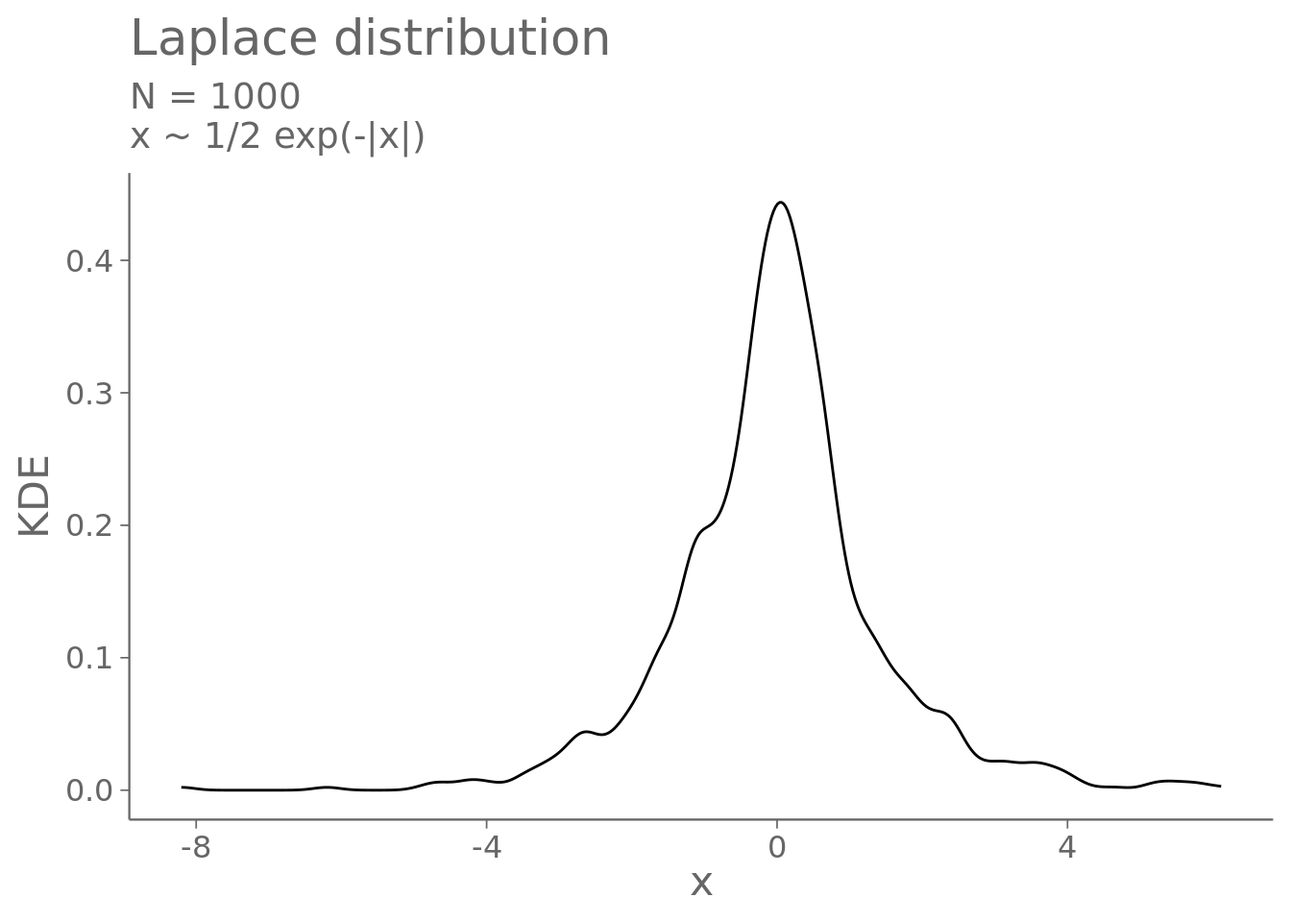
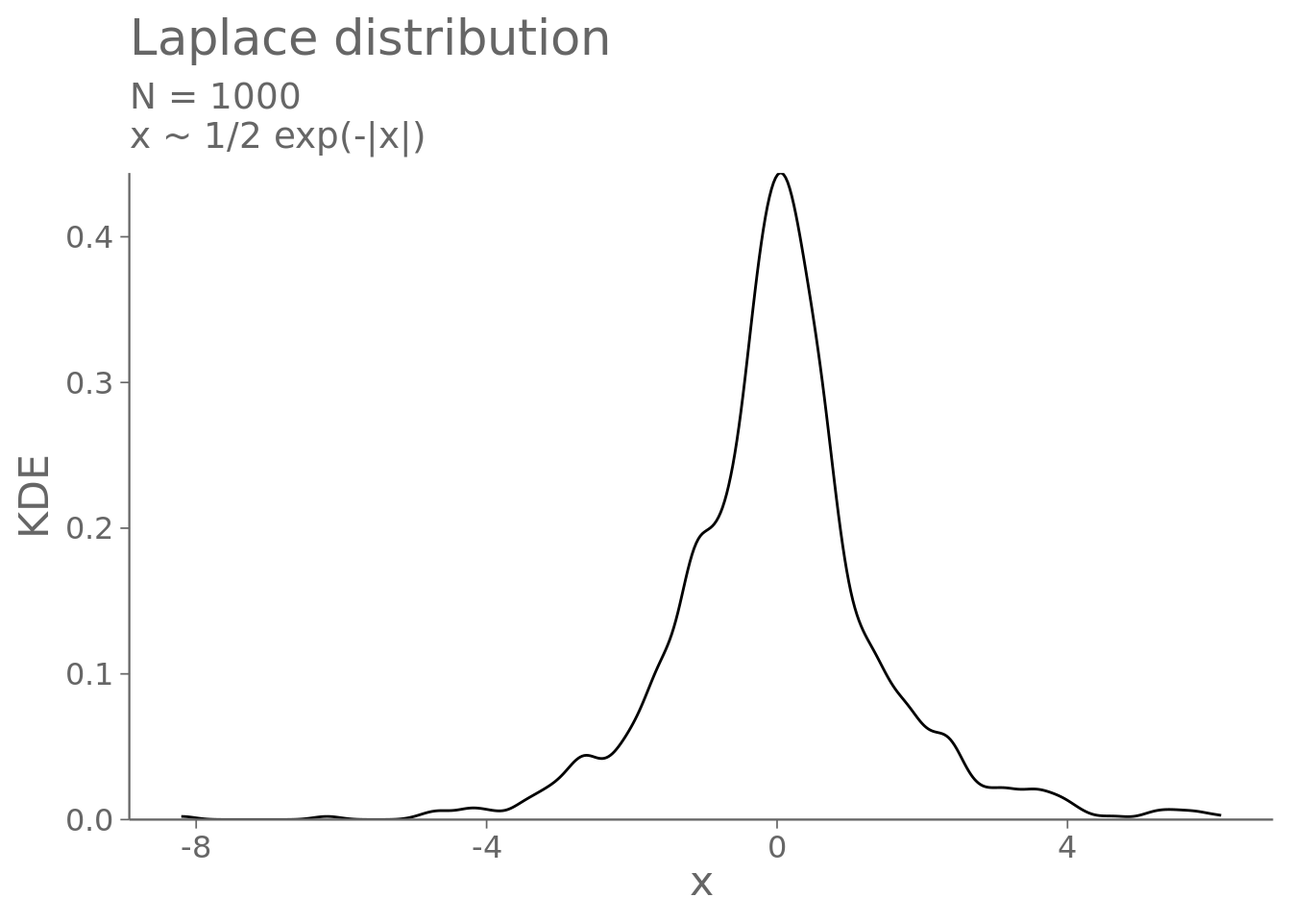
Tweaks to figures.

diff --git a/docs/case_studies/continuous/kde_study/KDE_demo.html b/docs/case_studies/continuous/kde_study/KDE_demo.html
@@ -9,7 +9,7 @@
 <meta name="author" content="Teemu Säilynoja">
 <meta name="dcterms.date" content="2023-02-22">
 
-<title>Posterior Predictive Checks - Kernel density estimate</title>
+<title>Posterior Predictive Checks - Pitfalls of density plots</title>
 <style>
 code{white-space: pre-wrap;}
 span.smallcaps{font-variant: small-caps;}
@@ -101,7 +101,7 @@ pre > code.sourceCode > span > a:first-child::before { text-decoration: underlin
   <script src="https://cdn.jsdelivr.net/npm/mathjax@3/es5/tex-chtml-full.js" type="text/javascript"></script>
 
 <link rel="stylesheet" href="../../../styles/styles.css">
-<meta name="twitter:title" content="Posterior Predictive Checks - Kernel density estimate">
+<meta name="twitter:title" content="Posterior Predictive Checks - Pitfalls of density plots">
 <meta name="twitter:description" content="">
 <meta name="twitter:image" content="docs/case_studies/ordinal/ordinal_files/figure-html/reliability-diagrams_1-1.svg">
 <meta name="twitter:card" content="summary_large_image">
@@ -145,7 +145,7 @@ pre > code.sourceCode > span > a:first-child::before { text-decoration: underlin
 <header id="title-block-header" class="quarto-title-block default page-columns page-full">
   <div class="quarto-title-banner page-columns page-full">
     <div class="quarto-title column-page-left">
-      <div class="quarto-title-block"><div><h1 class="title">Kernel density estimate</h1><button type="button" class="btn code-tools-button dropdown-toggle" id="quarto-code-tools-menu" data-bs-toggle="dropdown" aria-expanded="false"><i class="bi"></i> Code</button><ul class="dropdown-menu dropdown-menu-end" aria-labelelledby="quarto-code-tools-menu"><li><a id="quarto-show-all-code" class="dropdown-item" href="javascript:void(0)" role="button">Show All Code</a></li><li><a id="quarto-hide-all-code" class="dropdown-item" href="javascript:void(0)" role="button">Hide All Code</a></li><li><hr class="dropdown-divider"></li><li><a id="quarto-view-source" class="dropdown-item" href="javascript:void(0)" role="button">View Source</a></li></ul></div></div>
+      <div class="quarto-title-block"><div><h1 class="title">Pitfalls of density plots</h1><button type="button" class="btn code-tools-button dropdown-toggle" id="quarto-code-tools-menu" data-bs-toggle="dropdown" aria-expanded="false"><i class="bi"></i> Code</button><ul class="dropdown-menu dropdown-menu-end" aria-labelelledby="quarto-code-tools-menu"><li><a id="quarto-show-all-code" class="dropdown-item" href="javascript:void(0)" role="button">Show All Code</a></li><li><a id="quarto-hide-all-code" class="dropdown-item" href="javascript:void(0)" role="button">Hide All Code</a></li><li><hr class="dropdown-divider"></li><li><a id="quarto-view-source" class="dropdown-item" href="javascript:void(0)" role="button">View Source</a></li></ul></div></div>
                       </div>
   </div>
     
@@ -261,9 +261,10 @@ pre > code.sourceCode > span > a:first-child::before { text-decoration: underlin
 <span id="cb4-2"><a href="#cb4-2"></a>  <span class="fu">stat_density</span>(<span class="fu">aes</span>(<span class="at">x =</span> x1), <span class="at">bw =</span> <span class="st">"SJ"</span>, <span class="at">geom =</span> <span class="st">"line"</span>) <span class="sc">+</span></span>
 <span id="cb4-3"><a href="#cb4-3"></a>  <span class="fu">xlab</span>(<span class="fu">TeX</span>(<span class="st">"$x$"</span>)) <span class="sc">+</span></span>
 <span id="cb4-4"><a href="#cb4-4"></a>  <span class="fu">ylab</span>(<span class="st">"KDE"</span>) <span class="sc">+</span></span>
-<span id="cb4-5"><a href="#cb4-5"></a>  <span class="fu">ggtitle</span>(<span class="st">"Laplace distribution"</span>,<span class="at">subtitle =</span> <span class="st">"N = 1000</span><span class="sc">\n</span><span class="st">x ~ 1/2 exp(-|x|)"</span>)</span>
-<span id="cb4-6"><a href="#cb4-6"></a></span>
-<span id="cb4-7"><a href="#cb4-7"></a>p1</span></code><button title="Copy to Clipboard" class="code-copy-button"><i class="bi"></i></button></pre></div>
+<span id="cb4-5"><a href="#cb4-5"></a>  <span class="fu">ggtitle</span>(<span class="st">"Laplace distribution"</span>,<span class="at">subtitle =</span> <span class="st">"N = 1000</span><span class="sc">\n</span><span class="st">x ~ 1/2 exp(-|x|)"</span>) <span class="sc">+</span></span>
+<span id="cb4-6"><a href="#cb4-6"></a>  <span class="fu">scale_y_continuous</span>(<span class="at">expand =</span> <span class="fu">c</span>(<span class="dv">0</span>,<span class="cn">NA</span>))</span>
+<span id="cb4-7"><a href="#cb4-7"></a></span>
+<span id="cb4-8"><a href="#cb4-8"></a>p1</span></code><button title="Copy to Clipboard" class="code-copy-button"><i class="bi"></i></button></pre></div>
 </details>
 <div class="cell-output-display">
 <p><img src="KDE_demo_files/figure-html/unnamed-chunk-4-1.png" class="quarto-discovered-preview-image img-fluid" width="672"></p>
@@ -302,9 +303,10 @@ pre > code.sourceCode > span > a:first-child::before { text-decoration: underlin
 <span id="cb7-3"><a href="#cb7-3"></a>  <span class="fu">stat_density</span>(<span class="fu">aes</span>(<span class="at">x =</span> x2, <span class="at">colour =</span> <span class="st">"Naive"</span>), <span class="at">geom =</span> <span class="st">"line"</span>) <span class="sc">+</span> </span>
 <span id="cb7-4"><a href="#cb7-4"></a>  <span class="fu">labs</span>(<span class="at">title =</span> <span class="st">"Bounded observation"</span>, <span class="at">subtitle =</span> <span class="st">"KDE computed with and without the bounds"</span>,</span>
 <span id="cb7-5"><a href="#cb7-5"></a>       <span class="at">x =</span> <span class="fu">TeX</span>(<span class="st">"$x$"</span>), <span class="at">y =</span> <span class="st">"KDE"</span>, <span class="at">colour =</span> <span class="st">""</span>) <span class="sc">+</span></span>
-<span id="cb7-6"><a href="#cb7-6"></a>  <span class="fu">scale_colour_vibrant</span>()</span>
-<span id="cb7-7"><a href="#cb7-7"></a></span>
-<span id="cb7-8"><a href="#cb7-8"></a>p2</span></code><button title="Copy to Clipboard" class="code-copy-button"><i class="bi"></i></button></pre></div>
+<span id="cb7-6"><a href="#cb7-6"></a>  <span class="fu">scale_colour_vibrant</span>() <span class="sc">+</span></span>
+<span id="cb7-7"><a href="#cb7-7"></a>  <span class="fu">scale_y_continuous</span>(<span class="at">expand =</span> <span class="fu">c</span>(<span class="dv">0</span>,<span class="cn">NA</span>))</span>
+<span id="cb7-8"><a href="#cb7-8"></a></span>
+<span id="cb7-9"><a href="#cb7-9"></a>p2</span></code><button title="Copy to Clipboard" class="code-copy-button"><i class="bi"></i></button></pre></div>
 </details>
 <div class="cell-output-display">
 <p><img src="KDE_demo_files/figure-html/unnamed-chunk-7-1.png" class="img-fluid" width="672"></p>
@@ -352,9 +354,10 @@ pre > code.sourceCode > span > a:first-child::before { text-decoration: underlin
 <span id="cb10-10"><a href="#cb10-10"></a>  <span class="fu">labs</span>(<span class="at">title =</span> <span class="st">"Observation with point mass"</span>,</span>
 <span id="cb10-11"><a href="#cb10-11"></a>       <span class="at">subtitle =</span> <span class="st">"KDE for full observation and only continuous part"</span>,</span>
 <span id="cb10-12"><a href="#cb10-12"></a>       <span class="at">x =</span> <span class="fu">TeX</span>(<span class="st">"x"</span>), <span class="at">y =</span> <span class="st">""</span>, <span class="at">colour =</span> <span class="st">""</span>, <span class="at">fill =</span> <span class="st">""</span>) <span class="sc">+</span></span>
-<span id="cb10-13"><a href="#cb10-13"></a>  <span class="fu">scale_colour_vibrant</span>() <span class="sc">+</span> <span class="fu">scale_fill_vibrant</span>()</span>
-<span id="cb10-14"><a href="#cb10-14"></a></span>
-<span id="cb10-15"><a href="#cb10-15"></a>p3</span></code><button title="Copy to Clipboard" class="code-copy-button"><i class="bi"></i></button></pre></div>
+<span id="cb10-13"><a href="#cb10-13"></a>  <span class="fu">scale_colour_vibrant</span>() <span class="sc">+</span> <span class="fu">scale_fill_vibrant</span>() <span class="sc">+</span></span>
+<span id="cb10-14"><a href="#cb10-14"></a>  <span class="fu">scale_y_continuous</span>(<span class="at">expand =</span> <span class="fu">c</span>(<span class="dv">0</span>,<span class="cn">NA</span>))</span>
+<span id="cb10-15"><a href="#cb10-15"></a></span>
+<span id="cb10-16"><a href="#cb10-16"></a>p3</span></code><button title="Copy to Clipboard" class="code-copy-button"><i class="bi"></i></button></pre></div>
 </details>
 <div class="cell-output-display">
 <p><img src="KDE_demo_files/figure-html/unnamed-chunk-10-1.png" class="img-fluid" width="672"></p>
@@ -792,7 +795,7 @@ window.document.addEventListener("DOMContentLoaded", function (event) {
 });
 </script><div class="modal fade" id="quarto-embedded-source-code-modal" tabindex="-1" aria-labelledby="quarto-embedded-source-code-modal-label" aria-hidden="true"><div class="modal-dialog modal-dialog-scrollable"><div class="modal-content"><div class="modal-header"><h5 class="modal-title" id="quarto-embedded-source-code-modal-label">Source Code</h5><button class="btn-close" data-bs-dismiss="modal"></button></div><div class="modal-body"><div class="">
 <div class="sourceCode" id="cb13" data-shortcodes="false"><pre class="sourceCode numberSource markdown number-lines code-with-copy"><code class="sourceCode markdown"><span id="cb13-1"><a href="#cb13-1"></a><span class="co">---</span></span>
-<span id="cb13-2"><a href="#cb13-2"></a><span class="an">title:</span><span class="co"> "Kernel density estimate"</span></span>
+<span id="cb13-2"><a href="#cb13-2"></a><span class="an">title:</span><span class="co"> "Pitfalls of density plots"</span></span>
 <span id="cb13-3"><a href="#cb13-3"></a><span class="an">author:</span><span class="co"> "Teemu Säilynoja"</span></span>
 <span id="cb13-4"><a href="#cb13-4"></a><span class="an">date:</span><span class="co"> "2023-02-22"</span></span>
 <span id="cb13-5"><a href="#cb13-5"></a><span class="an">date-modified:</span><span class="co"> "`r format(Sys.Date(), '%Y-%m-%d')`"</span></span>
@@ -869,114 +872,117 @@ window.document.addEventListener("DOMContentLoaded", function (event) {
 <span id="cb13-84"><a href="#cb13-84"></a>  <span class="fu">stat_density</span>(<span class="fu">aes</span>(<span class="at">x =</span> x1), <span class="at">bw =</span> <span class="st">"SJ"</span>, <span class="at">geom =</span> <span class="st">"line"</span>) <span class="sc">+</span></span>
 <span id="cb13-85"><a href="#cb13-85"></a>  <span class="fu">xlab</span>(<span class="fu">TeX</span>(<span class="st">"$x$"</span>)) <span class="sc">+</span></span>
 <span id="cb13-86"><a href="#cb13-86"></a>  <span class="fu">ylab</span>(<span class="st">"KDE"</span>) <span class="sc">+</span></span>
-<span id="cb13-87"><a href="#cb13-87"></a>  <span class="fu">ggtitle</span>(<span class="st">"Laplace distribution"</span>,<span class="at">subtitle =</span> <span class="st">"N = 1000</span><span class="sc">\n</span><span class="st">x ~ 1/2 exp(-|x|)"</span>)</span>
-<span id="cb13-88"><a href="#cb13-88"></a></span>
-<span id="cb13-89"><a href="#cb13-89"></a>p1</span>
-<span id="cb13-90"><a href="#cb13-90"></a><span class="in">```</span></span>
-<span id="cb13-91"><a href="#cb13-91"></a></span>
-<span id="cb13-92"><a href="#cb13-92"></a>The ECDF difference plot doesn't suggest any issues with the KDE</span>
-<span id="cb13-95"><a href="#cb13-95"></a><span class="in">```{r}</span></span>
-<span id="cb13-96"><a href="#cb13-96"></a><span class="co">#| message: false</span></span>
-<span id="cb13-97"><a href="#cb13-97"></a>p0 <span class="sc">+</span> <span class="fu">geom_step</span>(<span class="fu">aes</span>(<span class="at">y =</span> <span class="fu">ecdf</span>(<span class="fu">pit_from_densityplot</span>(p1, <span class="dv">1</span>, x1))(x0) <span class="sc">-</span> x0))</span>
-<span id="cb13-98"><a href="#cb13-98"></a><span class="in">```</span></span>
-<span id="cb13-99"><a href="#cb13-99"></a></span>
+<span id="cb13-87"><a href="#cb13-87"></a>  <span class="fu">ggtitle</span>(<span class="st">"Laplace distribution"</span>,<span class="at">subtitle =</span> <span class="st">"N = 1000</span><span class="sc">\n</span><span class="st">x ~ 1/2 exp(-|x|)"</span>) <span class="sc">+</span></span>
+<span id="cb13-88"><a href="#cb13-88"></a>  <span class="fu">scale_y_continuous</span>(<span class="at">expand =</span> <span class="fu">c</span>(<span class="dv">0</span>,<span class="cn">NA</span>))</span>
+<span id="cb13-89"><a href="#cb13-89"></a></span>
+<span id="cb13-90"><a href="#cb13-90"></a>p1</span>
+<span id="cb13-91"><a href="#cb13-91"></a><span class="in">```</span></span>
+<span id="cb13-92"><a href="#cb13-92"></a></span>
+<span id="cb13-93"><a href="#cb13-93"></a>The ECDF difference plot doesn't suggest any issues with the KDE</span>
+<span id="cb13-96"><a href="#cb13-96"></a><span class="in">```{r}</span></span>
+<span id="cb13-97"><a href="#cb13-97"></a><span class="co">#| message: false</span></span>
+<span id="cb13-98"><a href="#cb13-98"></a>p0 <span class="sc">+</span> <span class="fu">geom_step</span>(<span class="fu">aes</span>(<span class="at">y =</span> <span class="fu">ecdf</span>(<span class="fu">pit_from_densityplot</span>(p1, <span class="dv">1</span>, x1))(x0) <span class="sc">-</span> x0))</span>
+<span id="cb13-99"><a href="#cb13-99"></a><span class="in">```</span></span>
 <span id="cb13-100"><a href="#cb13-100"></a></span>
-<span id="cb13-101"><a href="#cb13-101"></a><span class="fu">## Bounded continuous data</span></span>
-<span id="cb13-102"><a href="#cb13-102"></a></span>
-<span id="cb13-103"><a href="#cb13-103"></a>Sample as above, but the distribution is truncated to the interval $<span class="co">[</span><span class="ot">-1.5,0.5</span><span class="co">]</span>$.</span>
-<span id="cb13-104"><a href="#cb13-104"></a></span>
-<span id="cb13-107"><a href="#cb13-107"></a><span class="in">```{r}</span></span>
-<span id="cb13-108"><a href="#cb13-108"></a><span class="co">#| label: sample 2</span></span>
-<span id="cb13-109"><a href="#cb13-109"></a>x2 <span class="ot">&lt;-</span> x1</span>
-<span id="cb13-110"><a href="#cb13-110"></a><span class="cf">while</span> (<span class="sc">!</span><span class="fu">all</span>(x2 <span class="sc">&gt;</span> <span class="sc">-</span><span class="fl">1.5</span>, x2 <span class="sc">&lt;</span> .<span class="dv">5</span>)) {</span>
-<span id="cb13-111"><a href="#cb13-111"></a>  mask <span class="ot">&lt;-</span> (x2 <span class="sc">&lt;</span> <span class="sc">-</span><span class="fl">1.5</span> <span class="sc">|</span> x2 <span class="sc">&gt;</span> .<span class="dv">5</span>)</span>
-<span id="cb13-112"><a href="#cb13-112"></a>  x2[mask] <span class="ot">=</span> <span class="fu">sample</span>(<span class="fu">c</span>(<span class="sc">-</span><span class="dv">1</span>,<span class="dv">1</span>), <span class="fu">sum</span>(mask), <span class="at">replace =</span> T) <span class="sc">*</span> <span class="fu">rexp</span>(<span class="fu">sum</span>(mask))</span>
-<span id="cb13-113"><a href="#cb13-113"></a>}</span>
-<span id="cb13-114"><a href="#cb13-114"></a><span class="in">```</span></span>
-<span id="cb13-115"><a href="#cb13-115"></a></span>
-<span id="cb13-116"><a href="#cb13-116"></a>We see a difference in the tails of the densityplots, when the boundedness is taken into account in the KDE computations.</span>
-<span id="cb13-119"><a href="#cb13-119"></a><span class="in">```{r}</span></span>
-<span id="cb13-120"><a href="#cb13-120"></a>p2 <span class="ot">&lt;-</span> <span class="fu">ggplot</span>() <span class="sc">+</span> </span>
-<span id="cb13-121"><a href="#cb13-121"></a>  <span class="fu">stat_density</span>(<span class="fu">aes</span>(<span class="at">x =</span> x2, <span class="at">colour =</span> <span class="st">"Bounded"</span>), <span class="at">geom =</span> <span class="st">"line"</span>, <span class="at">bounds =</span> <span class="fu">c</span>(<span class="sc">-</span><span class="fl">1.5</span>, .<span class="dv">5</span>)) <span class="sc">+</span></span>
-<span id="cb13-122"><a href="#cb13-122"></a>  <span class="fu">stat_density</span>(<span class="fu">aes</span>(<span class="at">x =</span> x2, <span class="at">colour =</span> <span class="st">"Naive"</span>), <span class="at">geom =</span> <span class="st">"line"</span>) <span class="sc">+</span> </span>
-<span id="cb13-123"><a href="#cb13-123"></a>  <span class="fu">labs</span>(<span class="at">title =</span> <span class="st">"Bounded observation"</span>, <span class="at">subtitle =</span> <span class="st">"KDE computed with and without the bounds"</span>,</span>
-<span id="cb13-124"><a href="#cb13-124"></a>       <span class="at">x =</span> <span class="fu">TeX</span>(<span class="st">"$x$"</span>), <span class="at">y =</span> <span class="st">"KDE"</span>, <span class="at">colour =</span> <span class="st">""</span>) <span class="sc">+</span></span>
-<span id="cb13-125"><a href="#cb13-125"></a>  <span class="fu">scale_colour_vibrant</span>()</span>
-<span id="cb13-126"><a href="#cb13-126"></a></span>
-<span id="cb13-127"><a href="#cb13-127"></a>p2</span>
-<span id="cb13-128"><a href="#cb13-128"></a><span class="in">```</span></span>
-<span id="cb13-129"><a href="#cb13-129"></a></span>
-<span id="cb13-130"><a href="#cb13-130"></a>The ECDF difference plot also suggests calibration issues with the unbounded KDE. </span>
-<span id="cb13-133"><a href="#cb13-133"></a><span class="in">```{r}</span></span>
-<span id="cb13-134"><a href="#cb13-134"></a><span class="co">#| label: ecdf 2</span></span>
-<span id="cb13-135"><a href="#cb13-135"></a><span class="co">#| message: false</span></span>
-<span id="cb13-136"><a href="#cb13-136"></a>p0 <span class="sc">+</span> <span class="fu">geom_step</span>(<span class="fu">aes</span>(<span class="at">y =</span> <span class="fu">ecdf</span>(<span class="fu">pit_from_densityplot</span>(p2, <span class="dv">2</span>, x2))(x0) <span class="sc">-</span> x0,</span>
-<span id="cb13-137"><a href="#cb13-137"></a>                   <span class="at">colour =</span> <span class="st">"Naive"</span>)) <span class="sc">+</span></span>
-<span id="cb13-138"><a href="#cb13-138"></a>  <span class="fu">geom_step</span>(<span class="fu">aes</span>(<span class="at">y =</span> <span class="fu">ecdf</span>(<span class="fu">pit_from_densityplot</span>(p2, <span class="dv">1</span>, x2))(x0) <span class="sc">-</span> x0, <span class="at">colour =</span> <span class="st">"Bounded"</span>)) <span class="sc">+</span></span>
-<span id="cb13-139"><a href="#cb13-139"></a>  <span class="fu">labs</span>(<span class="at">colour =</span> <span class="st">""</span>) <span class="sc">+</span></span>
-<span id="cb13-140"><a href="#cb13-140"></a>  <span class="fu">scale_colour_vibrant</span>()</span>
-<span id="cb13-141"><a href="#cb13-141"></a><span class="in">```</span></span>
-<span id="cb13-142"><a href="#cb13-142"></a></span>
-<span id="cb13-143"><a href="#cb13-143"></a></span>
-<span id="cb13-144"><a href="#cb13-144"></a><span class="fu">## Continuous data with point masses</span></span>
+<span id="cb13-101"><a href="#cb13-101"></a></span>
+<span id="cb13-102"><a href="#cb13-102"></a><span class="fu">## Bounded continuous data</span></span>
+<span id="cb13-103"><a href="#cb13-103"></a></span>
+<span id="cb13-104"><a href="#cb13-104"></a>Sample as above, but the distribution is truncated to the interval $<span class="co">[</span><span class="ot">-1.5,0.5</span><span class="co">]</span>$.</span>
+<span id="cb13-105"><a href="#cb13-105"></a></span>
+<span id="cb13-108"><a href="#cb13-108"></a><span class="in">```{r}</span></span>
+<span id="cb13-109"><a href="#cb13-109"></a><span class="co">#| label: sample 2</span></span>
+<span id="cb13-110"><a href="#cb13-110"></a>x2 <span class="ot">&lt;-</span> x1</span>
+<span id="cb13-111"><a href="#cb13-111"></a><span class="cf">while</span> (<span class="sc">!</span><span class="fu">all</span>(x2 <span class="sc">&gt;</span> <span class="sc">-</span><span class="fl">1.5</span>, x2 <span class="sc">&lt;</span> .<span class="dv">5</span>)) {</span>
+<span id="cb13-112"><a href="#cb13-112"></a>  mask <span class="ot">&lt;-</span> (x2 <span class="sc">&lt;</span> <span class="sc">-</span><span class="fl">1.5</span> <span class="sc">|</span> x2 <span class="sc">&gt;</span> .<span class="dv">5</span>)</span>
+<span id="cb13-113"><a href="#cb13-113"></a>  x2[mask] <span class="ot">=</span> <span class="fu">sample</span>(<span class="fu">c</span>(<span class="sc">-</span><span class="dv">1</span>,<span class="dv">1</span>), <span class="fu">sum</span>(mask), <span class="at">replace =</span> T) <span class="sc">*</span> <span class="fu">rexp</span>(<span class="fu">sum</span>(mask))</span>
+<span id="cb13-114"><a href="#cb13-114"></a>}</span>
+<span id="cb13-115"><a href="#cb13-115"></a><span class="in">```</span></span>
+<span id="cb13-116"><a href="#cb13-116"></a></span>
+<span id="cb13-117"><a href="#cb13-117"></a>We see a difference in the tails of the densityplots, when the boundedness is taken into account in the KDE computations.</span>
+<span id="cb13-120"><a href="#cb13-120"></a><span class="in">```{r}</span></span>
+<span id="cb13-121"><a href="#cb13-121"></a>p2 <span class="ot">&lt;-</span> <span class="fu">ggplot</span>() <span class="sc">+</span> </span>
+<span id="cb13-122"><a href="#cb13-122"></a>  <span class="fu">stat_density</span>(<span class="fu">aes</span>(<span class="at">x =</span> x2, <span class="at">colour =</span> <span class="st">"Bounded"</span>), <span class="at">geom =</span> <span class="st">"line"</span>, <span class="at">bounds =</span> <span class="fu">c</span>(<span class="sc">-</span><span class="fl">1.5</span>, .<span class="dv">5</span>)) <span class="sc">+</span></span>
+<span id="cb13-123"><a href="#cb13-123"></a>  <span class="fu">stat_density</span>(<span class="fu">aes</span>(<span class="at">x =</span> x2, <span class="at">colour =</span> <span class="st">"Naive"</span>), <span class="at">geom =</span> <span class="st">"line"</span>) <span class="sc">+</span> </span>
+<span id="cb13-124"><a href="#cb13-124"></a>  <span class="fu">labs</span>(<span class="at">title =</span> <span class="st">"Bounded observation"</span>, <span class="at">subtitle =</span> <span class="st">"KDE computed with and without the bounds"</span>,</span>
+<span id="cb13-125"><a href="#cb13-125"></a>       <span class="at">x =</span> <span class="fu">TeX</span>(<span class="st">"$x$"</span>), <span class="at">y =</span> <span class="st">"KDE"</span>, <span class="at">colour =</span> <span class="st">""</span>) <span class="sc">+</span></span>
+<span id="cb13-126"><a href="#cb13-126"></a>  <span class="fu">scale_colour_vibrant</span>() <span class="sc">+</span></span>
+<span id="cb13-127"><a href="#cb13-127"></a>  <span class="fu">scale_y_continuous</span>(<span class="at">expand =</span> <span class="fu">c</span>(<span class="dv">0</span>,<span class="cn">NA</span>))</span>
+<span id="cb13-128"><a href="#cb13-128"></a></span>
+<span id="cb13-129"><a href="#cb13-129"></a>p2</span>
+<span id="cb13-130"><a href="#cb13-130"></a><span class="in">```</span></span>
+<span id="cb13-131"><a href="#cb13-131"></a></span>
+<span id="cb13-132"><a href="#cb13-132"></a>The ECDF difference plot also suggests calibration issues with the unbounded KDE. </span>
+<span id="cb13-135"><a href="#cb13-135"></a><span class="in">```{r}</span></span>
+<span id="cb13-136"><a href="#cb13-136"></a><span class="co">#| label: ecdf 2</span></span>
+<span id="cb13-137"><a href="#cb13-137"></a><span class="co">#| message: false</span></span>
+<span id="cb13-138"><a href="#cb13-138"></a>p0 <span class="sc">+</span> <span class="fu">geom_step</span>(<span class="fu">aes</span>(<span class="at">y =</span> <span class="fu">ecdf</span>(<span class="fu">pit_from_densityplot</span>(p2, <span class="dv">2</span>, x2))(x0) <span class="sc">-</span> x0,</span>
+<span id="cb13-139"><a href="#cb13-139"></a>                   <span class="at">colour =</span> <span class="st">"Naive"</span>)) <span class="sc">+</span></span>
+<span id="cb13-140"><a href="#cb13-140"></a>  <span class="fu">geom_step</span>(<span class="fu">aes</span>(<span class="at">y =</span> <span class="fu">ecdf</span>(<span class="fu">pit_from_densityplot</span>(p2, <span class="dv">1</span>, x2))(x0) <span class="sc">-</span> x0, <span class="at">colour =</span> <span class="st">"Bounded"</span>)) <span class="sc">+</span></span>
+<span id="cb13-141"><a href="#cb13-141"></a>  <span class="fu">labs</span>(<span class="at">colour =</span> <span class="st">""</span>) <span class="sc">+</span></span>
+<span id="cb13-142"><a href="#cb13-142"></a>  <span class="fu">scale_colour_vibrant</span>()</span>
+<span id="cb13-143"><a href="#cb13-143"></a><span class="in">```</span></span>
+<span id="cb13-144"><a href="#cb13-144"></a></span>
 <span id="cb13-145"><a href="#cb13-145"></a></span>
-<span id="cb13-146"><a href="#cb13-146"></a>Simulate an example, where measurements under a certain threshold are reported as zeros.</span>
-<span id="cb13-147"><a href="#cb13-147"></a>Here $x\sim\exp(x)$ with all values sampled below $0.1$ reported as zero. </span>
-<span id="cb13-150"><a href="#cb13-150"></a><span class="in">```{r}</span></span>
-<span id="cb13-151"><a href="#cb13-151"></a><span class="co">#| label: sample 3</span></span>
-<span id="cb13-152"><a href="#cb13-152"></a>x3 <span class="ot">&lt;-</span> <span class="fu">rexp</span>(<span class="dv">1000</span>, <span class="dv">1</span>)</span>
-<span id="cb13-153"><a href="#cb13-153"></a>x3[x3 <span class="sc">&lt;</span> .<span class="dv">1</span>] <span class="ot">&lt;-</span> <span class="dv">0</span></span>
-<span id="cb13-154"><a href="#cb13-154"></a><span class="in">```</span></span>
-<span id="cb13-155"><a href="#cb13-155"></a></span>
-<span id="cb13-156"><a href="#cb13-156"></a>If the measurement threshold is known, the data can be visualized as a mixture of</span>
-<span id="cb13-157"><a href="#cb13-157"></a>a discrete point mass and a continuous distribution. The "naive" KDE seems to </span>
-<span id="cb13-158"><a href="#cb13-158"></a>under estimate the density near $0.1$, and can't show the spike at zero. </span>
-<span id="cb13-159"><a href="#cb13-159"></a></span>
-<span id="cb13-160"><a href="#cb13-160"></a>Below, the density of the continuous mixture component is scaled by $P(x \neq 0)$</span>
-<span id="cb13-161"><a href="#cb13-161"></a>to make the area of the bar and the KDE together add to one.</span>
-<span id="cb13-164"><a href="#cb13-164"></a><span class="in">```{r}</span></span>
-<span id="cb13-165"><a href="#cb13-165"></a>p3 <span class="ot">&lt;-</span> <span class="fu">ggplot</span>() <span class="sc">+</span> </span>
-<span id="cb13-166"><a href="#cb13-166"></a>  <span class="fu">geom_rect</span>(</span>
-<span id="cb13-167"><a href="#cb13-167"></a>    <span class="fu">aes</span>(<span class="at">xmin =</span> <span class="dv">0</span>, <span class="at">xmax =</span> .<span class="dv">1</span>, <span class="at">ymin =</span> <span class="dv">0</span>, <span class="at">ymax =</span> <span class="dv">10</span> <span class="sc">*</span> <span class="fu">sum</span>(x3 <span class="sc">==</span> <span class="dv">0</span>) <span class="sc">/</span> <span class="fu">length</span>(x3), </span>
-<span id="cb13-168"><a href="#cb13-168"></a>        <span class="at">colour =</span> <span class="st">"Mixture"</span>, <span class="at">fill =</span> <span class="st">"Mixture"</span>),</span>
-<span id="cb13-169"><a href="#cb13-169"></a>    <span class="at">alpha =</span> .<span class="dv">3</span>) <span class="sc">+</span></span>
-<span id="cb13-170"><a href="#cb13-170"></a>  <span class="fu">stat_density</span>(</span>
-<span id="cb13-171"><a href="#cb13-171"></a>    <span class="fu">aes</span>(<span class="at">x =</span> x3[x3 <span class="sc">&gt;</span> <span class="dv">0</span>], <span class="at">y =</span> (<span class="dv">1</span> <span class="sc">-</span> <span class="fu">sum</span>(x3 <span class="sc">==</span> <span class="dv">0</span>) <span class="sc">/</span> <span class="fu">length</span>(x3)) <span class="sc">*</span> <span class="fu">after_stat</span>(density), </span>
-<span id="cb13-172"><a href="#cb13-172"></a>        <span class="at">colour =</span> <span class="st">"Mixture"</span>, <span class="at">fill =</span> <span class="st">"Naive"</span>), <span class="at">alpha =</span> <span class="dv">0</span>, <span class="at">bounds =</span> <span class="fu">c</span>(.<span class="dv">1</span>, <span class="cn">Inf</span>), <span class="at">outline.type =</span> <span class="st">"upper"</span>) <span class="sc">+</span></span>
-<span id="cb13-173"><a href="#cb13-173"></a>  <span class="fu">stat_density</span>(<span class="fu">aes</span>(<span class="at">x =</span> x3, <span class="at">colour =</span> <span class="st">"Naive"</span>, <span class="at">fill =</span> <span class="st">"Naive"</span>), <span class="at">alpha =</span> <span class="dv">0</span>, <span class="at">linewidth =</span> <span class="dv">1</span>, <span class="at">outline.type =</span> <span class="st">"upper"</span>) <span class="sc">+</span></span>
-<span id="cb13-174"><a href="#cb13-174"></a>  <span class="fu">labs</span>(<span class="at">title =</span> <span class="st">"Observation with point mass"</span>,</span>
-<span id="cb13-175"><a href="#cb13-175"></a>       <span class="at">subtitle =</span> <span class="st">"KDE for full observation and only continuous part"</span>,</span>
-<span id="cb13-176"><a href="#cb13-176"></a>       <span class="at">x =</span> <span class="fu">TeX</span>(<span class="st">"x"</span>), <span class="at">y =</span> <span class="st">""</span>, <span class="at">colour =</span> <span class="st">""</span>, <span class="at">fill =</span> <span class="st">""</span>) <span class="sc">+</span></span>
-<span id="cb13-177"><a href="#cb13-177"></a>  <span class="fu">scale_colour_vibrant</span>() <span class="sc">+</span> <span class="fu">scale_fill_vibrant</span>()</span>
-<span id="cb13-178"><a href="#cb13-178"></a></span>
-<span id="cb13-179"><a href="#cb13-179"></a>p3</span>
-<span id="cb13-180"><a href="#cb13-180"></a><span class="in">```</span></span>
+<span id="cb13-146"><a href="#cb13-146"></a><span class="fu">## Continuous data with point masses</span></span>
+<span id="cb13-147"><a href="#cb13-147"></a></span>
+<span id="cb13-148"><a href="#cb13-148"></a>Simulate an example, where measurements under a certain threshold are reported as zeros.</span>
+<span id="cb13-149"><a href="#cb13-149"></a>Here $x\sim\exp(x)$ with all values sampled below $0.1$ reported as zero. </span>
+<span id="cb13-152"><a href="#cb13-152"></a><span class="in">```{r}</span></span>
+<span id="cb13-153"><a href="#cb13-153"></a><span class="co">#| label: sample 3</span></span>
+<span id="cb13-154"><a href="#cb13-154"></a>x3 <span class="ot">&lt;-</span> <span class="fu">rexp</span>(<span class="dv">1000</span>, <span class="dv">1</span>)</span>
+<span id="cb13-155"><a href="#cb13-155"></a>x3[x3 <span class="sc">&lt;</span> .<span class="dv">1</span>] <span class="ot">&lt;-</span> <span class="dv">0</span></span>
+<span id="cb13-156"><a href="#cb13-156"></a><span class="in">```</span></span>
+<span id="cb13-157"><a href="#cb13-157"></a></span>
+<span id="cb13-158"><a href="#cb13-158"></a>If the measurement threshold is known, the data can be visualized as a mixture of</span>
+<span id="cb13-159"><a href="#cb13-159"></a>a discrete point mass and a continuous distribution. The "naive" KDE seems to </span>
+<span id="cb13-160"><a href="#cb13-160"></a>under estimate the density near $0.1$, and can't show the spike at zero. </span>
+<span id="cb13-161"><a href="#cb13-161"></a></span>
+<span id="cb13-162"><a href="#cb13-162"></a>Below, the density of the continuous mixture component is scaled by $P(x \neq 0)$</span>
+<span id="cb13-163"><a href="#cb13-163"></a>to make the area of the bar and the KDE together add to one.</span>
+<span id="cb13-166"><a href="#cb13-166"></a><span class="in">```{r}</span></span>
+<span id="cb13-167"><a href="#cb13-167"></a>p3 <span class="ot">&lt;-</span> <span class="fu">ggplot</span>() <span class="sc">+</span> </span>
+<span id="cb13-168"><a href="#cb13-168"></a>  <span class="fu">geom_rect</span>(</span>
+<span id="cb13-169"><a href="#cb13-169"></a>    <span class="fu">aes</span>(<span class="at">xmin =</span> <span class="dv">0</span>, <span class="at">xmax =</span> .<span class="dv">1</span>, <span class="at">ymin =</span> <span class="dv">0</span>, <span class="at">ymax =</span> <span class="dv">10</span> <span class="sc">*</span> <span class="fu">sum</span>(x3 <span class="sc">==</span> <span class="dv">0</span>) <span class="sc">/</span> <span class="fu">length</span>(x3), </span>
+<span id="cb13-170"><a href="#cb13-170"></a>        <span class="at">colour =</span> <span class="st">"Mixture"</span>, <span class="at">fill =</span> <span class="st">"Mixture"</span>),</span>
+<span id="cb13-171"><a href="#cb13-171"></a>    <span class="at">alpha =</span> .<span class="dv">3</span>) <span class="sc">+</span></span>
+<span id="cb13-172"><a href="#cb13-172"></a>  <span class="fu">stat_density</span>(</span>
+<span id="cb13-173"><a href="#cb13-173"></a>    <span class="fu">aes</span>(<span class="at">x =</span> x3[x3 <span class="sc">&gt;</span> <span class="dv">0</span>], <span class="at">y =</span> (<span class="dv">1</span> <span class="sc">-</span> <span class="fu">sum</span>(x3 <span class="sc">==</span> <span class="dv">0</span>) <span class="sc">/</span> <span class="fu">length</span>(x3)) <span class="sc">*</span> <span class="fu">after_stat</span>(density), </span>
+<span id="cb13-174"><a href="#cb13-174"></a>        <span class="at">colour =</span> <span class="st">"Mixture"</span>, <span class="at">fill =</span> <span class="st">"Naive"</span>), <span class="at">alpha =</span> <span class="dv">0</span>, <span class="at">bounds =</span> <span class="fu">c</span>(.<span class="dv">1</span>, <span class="cn">Inf</span>), <span class="at">outline.type =</span> <span class="st">"upper"</span>) <span class="sc">+</span></span>
+<span id="cb13-175"><a href="#cb13-175"></a>  <span class="fu">stat_density</span>(<span class="fu">aes</span>(<span class="at">x =</span> x3, <span class="at">colour =</span> <span class="st">"Naive"</span>, <span class="at">fill =</span> <span class="st">"Naive"</span>), <span class="at">alpha =</span> <span class="dv">0</span>, <span class="at">linewidth =</span> <span class="dv">1</span>, <span class="at">outline.type =</span> <span class="st">"upper"</span>) <span class="sc">+</span></span>
+<span id="cb13-176"><a href="#cb13-176"></a>  <span class="fu">labs</span>(<span class="at">title =</span> <span class="st">"Observation with point mass"</span>,</span>
+<span id="cb13-177"><a href="#cb13-177"></a>       <span class="at">subtitle =</span> <span class="st">"KDE for full observation and only continuous part"</span>,</span>
+<span id="cb13-178"><a href="#cb13-178"></a>       <span class="at">x =</span> <span class="fu">TeX</span>(<span class="st">"x"</span>), <span class="at">y =</span> <span class="st">""</span>, <span class="at">colour =</span> <span class="st">""</span>, <span class="at">fill =</span> <span class="st">""</span>) <span class="sc">+</span></span>
+<span id="cb13-179"><a href="#cb13-179"></a>  <span class="fu">scale_colour_vibrant</span>() <span class="sc">+</span> <span class="fu">scale_fill_vibrant</span>() <span class="sc">+</span></span>
+<span id="cb13-180"><a href="#cb13-180"></a>  <span class="fu">scale_y_continuous</span>(<span class="at">expand =</span> <span class="fu">c</span>(<span class="dv">0</span>,<span class="cn">NA</span>))</span>
 <span id="cb13-181"><a href="#cb13-181"></a></span>
-<span id="cb13-182"><a href="#cb13-182"></a>The calibration of the KDE for the continuous part should be inspected separately,</span>
-<span id="cb13-183"><a href="#cb13-183"></a>as the scaled density above would show miscalibration due to missing part of the</span>
-<span id="cb13-184"><a href="#cb13-184"></a>observation distribution.  </span>
-<span id="cb13-187"><a href="#cb13-187"></a><span class="in">```{r}</span></span>
-<span id="cb13-188"><a href="#cb13-188"></a>p4 <span class="ot">&lt;-</span> <span class="fu">ggplot</span>() <span class="sc">+</span> </span>
-<span id="cb13-189"><a href="#cb13-189"></a>  <span class="fu">stat_density</span>(</span>
-<span id="cb13-190"><a href="#cb13-190"></a>    <span class="fu">aes</span>(<span class="at">x =</span> x3[x3 <span class="sc">&gt;</span> <span class="dv">0</span>], </span>
-<span id="cb13-191"><a href="#cb13-191"></a>        <span class="at">colour =</span> <span class="st">"Mixture"</span>), <span class="at">bounds =</span> <span class="fu">c</span>(.<span class="dv">1</span>, <span class="cn">Inf</span>),</span>
-<span id="cb13-192"><a href="#cb13-192"></a>    <span class="at">geom =</span> <span class="st">"line"</span>)</span>
-<span id="cb13-193"><a href="#cb13-193"></a><span class="in">```</span></span>
-<span id="cb13-194"><a href="#cb13-194"></a></span>
-<span id="cb13-195"><a href="#cb13-195"></a>Again, the ECDF difference plot suggest issues with the naive approach and thus </span>
-<span id="cb13-196"><a href="#cb13-196"></a>could be used to warn user if the naive density plot is drawn.</span>
-<span id="cb13-199"><a href="#cb13-199"></a><span class="in">```{r}</span></span>
-<span id="cb13-200"><a href="#cb13-200"></a><span class="co">#| label: ecdf 3</span></span>
-<span id="cb13-201"><a href="#cb13-201"></a><span class="co">#| message: false</span></span>
-<span id="cb13-202"><a href="#cb13-202"></a>p0 <span class="sc">+</span> <span class="fu">geom_step</span>(<span class="fu">aes</span>(<span class="at">y =</span> <span class="fu">ecdf</span>(<span class="fu">pit_from_densityplot</span>(p3, <span class="dv">3</span>, x3))(x0) <span class="sc">-</span> x0, <span class="at">colour =</span> <span class="st">"Naive"</span>)) <span class="sc">+</span></span>
-<span id="cb13-203"><a href="#cb13-203"></a>  <span class="fu">geom_step</span>(<span class="fu">aes</span>(<span class="at">y =</span> <span class="fu">ecdf</span>(<span class="fu">pit_from_densityplot</span>(p4, <span class="dv">1</span>, x3[x3 <span class="sc">&gt;</span> <span class="dv">0</span>]))(x0) <span class="sc">-</span> x0, </span>
-<span id="cb13-204"><a href="#cb13-204"></a>                <span class="at">colour =</span> <span class="st">"Mixture"</span>)) <span class="sc">+</span></span>
-<span id="cb13-205"><a href="#cb13-205"></a>  <span class="fu">labs</span>(<span class="at">colour =</span> <span class="st">""</span>) <span class="sc">+</span></span>
-<span id="cb13-206"><a href="#cb13-206"></a>  <span class="fu">scale_colour_vibrant</span>()</span>
-<span id="cb13-207"><a href="#cb13-207"></a><span class="in">```</span></span>
-<span id="cb13-208"><a href="#cb13-208"></a></span>
-<span id="cb13-209"><a href="#cb13-209"></a></span>
-<span id="cb13-210"><a href="#cb13-210"></a></span>
+<span id="cb13-182"><a href="#cb13-182"></a>p3</span>
+<span id="cb13-183"><a href="#cb13-183"></a><span class="in">```</span></span>
+<span id="cb13-184"><a href="#cb13-184"></a></span>
+<span id="cb13-185"><a href="#cb13-185"></a>The calibration of the KDE for the continuous part should be inspected separately,</span>
+<span id="cb13-186"><a href="#cb13-186"></a>as the scaled density above would show miscalibration due to missing part of the</span>
+<span id="cb13-187"><a href="#cb13-187"></a>observation distribution.  </span>
+<span id="cb13-190"><a href="#cb13-190"></a><span class="in">```{r}</span></span>
+<span id="cb13-191"><a href="#cb13-191"></a>p4 <span class="ot">&lt;-</span> <span class="fu">ggplot</span>() <span class="sc">+</span> </span>
+<span id="cb13-192"><a href="#cb13-192"></a>  <span class="fu">stat_density</span>(</span>
+<span id="cb13-193"><a href="#cb13-193"></a>    <span class="fu">aes</span>(<span class="at">x =</span> x3[x3 <span class="sc">&gt;</span> <span class="dv">0</span>], </span>
+<span id="cb13-194"><a href="#cb13-194"></a>        <span class="at">colour =</span> <span class="st">"Mixture"</span>), <span class="at">bounds =</span> <span class="fu">c</span>(.<span class="dv">1</span>, <span class="cn">Inf</span>),</span>
+<span id="cb13-195"><a href="#cb13-195"></a>    <span class="at">geom =</span> <span class="st">"line"</span>)</span>
+<span id="cb13-196"><a href="#cb13-196"></a><span class="in">```</span></span>
+<span id="cb13-197"><a href="#cb13-197"></a></span>
+<span id="cb13-198"><a href="#cb13-198"></a>Again, the ECDF difference plot suggest issues with the naive approach and thus </span>
+<span id="cb13-199"><a href="#cb13-199"></a>could be used to warn user if the naive density plot is drawn.</span>
+<span id="cb13-202"><a href="#cb13-202"></a><span class="in">```{r}</span></span>
+<span id="cb13-203"><a href="#cb13-203"></a><span class="co">#| label: ecdf 3</span></span>
+<span id="cb13-204"><a href="#cb13-204"></a><span class="co">#| message: false</span></span>
+<span id="cb13-205"><a href="#cb13-205"></a>p0 <span class="sc">+</span> <span class="fu">geom_step</span>(<span class="fu">aes</span>(<span class="at">y =</span> <span class="fu">ecdf</span>(<span class="fu">pit_from_densityplot</span>(p3, <span class="dv">3</span>, x3))(x0) <span class="sc">-</span> x0, <span class="at">colour =</span> <span class="st">"Naive"</span>)) <span class="sc">+</span></span>
+<span id="cb13-206"><a href="#cb13-206"></a>  <span class="fu">geom_step</span>(<span class="fu">aes</span>(<span class="at">y =</span> <span class="fu">ecdf</span>(<span class="fu">pit_from_densityplot</span>(p4, <span class="dv">1</span>, x3[x3 <span class="sc">&gt;</span> <span class="dv">0</span>]))(x0) <span class="sc">-</span> x0, </span>
+<span id="cb13-207"><a href="#cb13-207"></a>                <span class="at">colour =</span> <span class="st">"Mixture"</span>)) <span class="sc">+</span></span>
+<span id="cb13-208"><a href="#cb13-208"></a>  <span class="fu">labs</span>(<span class="at">colour =</span> <span class="st">""</span>) <span class="sc">+</span></span>
+<span id="cb13-209"><a href="#cb13-209"></a>  <span class="fu">scale_colour_vibrant</span>()</span>
+<span id="cb13-210"><a href="#cb13-210"></a><span class="in">```</span></span>
+<span id="cb13-211"><a href="#cb13-211"></a></span>
+<span id="cb13-212"><a href="#cb13-212"></a></span>
+<span id="cb13-213"><a href="#cb13-213"></a></span>
 </code><button title="Copy to Clipboard" class="code-copy-button"><i class="bi"></i></button></pre></div>
 </div></div></div></div></div>
 </div> <!-- /content -->

diff --git a/docs/index.html b/docs/index.html
@@ -168,14 +168,14 @@ ul.task-list li input[type="checkbox"] {
 
 <div class="quarto-listing quarto-listing-container-default" id="listing-listing">
 <div class="list quarto-listing-default">
-<div class="quarto-post image-right" data-index="0" data-listing-date-sort="1677016800000" data-listing-file-modified-sort="1684164884614" data-listing-date-modified-sort="NaN" data-listing-reading-time-sort="5">
+<div class="quarto-post image-right" data-index="0" data-listing-date-sort="1677016800000" data-listing-file-modified-sort="1684166439570" data-listing-date-modified-sort="NaN" data-listing-reading-time-sort="5">
 <div class="thumbnail">
 <p><a href="./case_studies/continuous/kde_study/KDE_demo.html"> <img src="case_studies/continuous/kde_study/KDE_demo_files/figure-html/unnamed-chunk-4-1.png" /> </a></p>
 </div>
 <div class="body">
 <a href="./case_studies/continuous/kde_study/KDE_demo.html">
 <h3 class="no-anchor listing-title">
-Kernel density estimate
+Pitfalls of density plots
 </h3>
 <div class="listing-subtitle">
 
